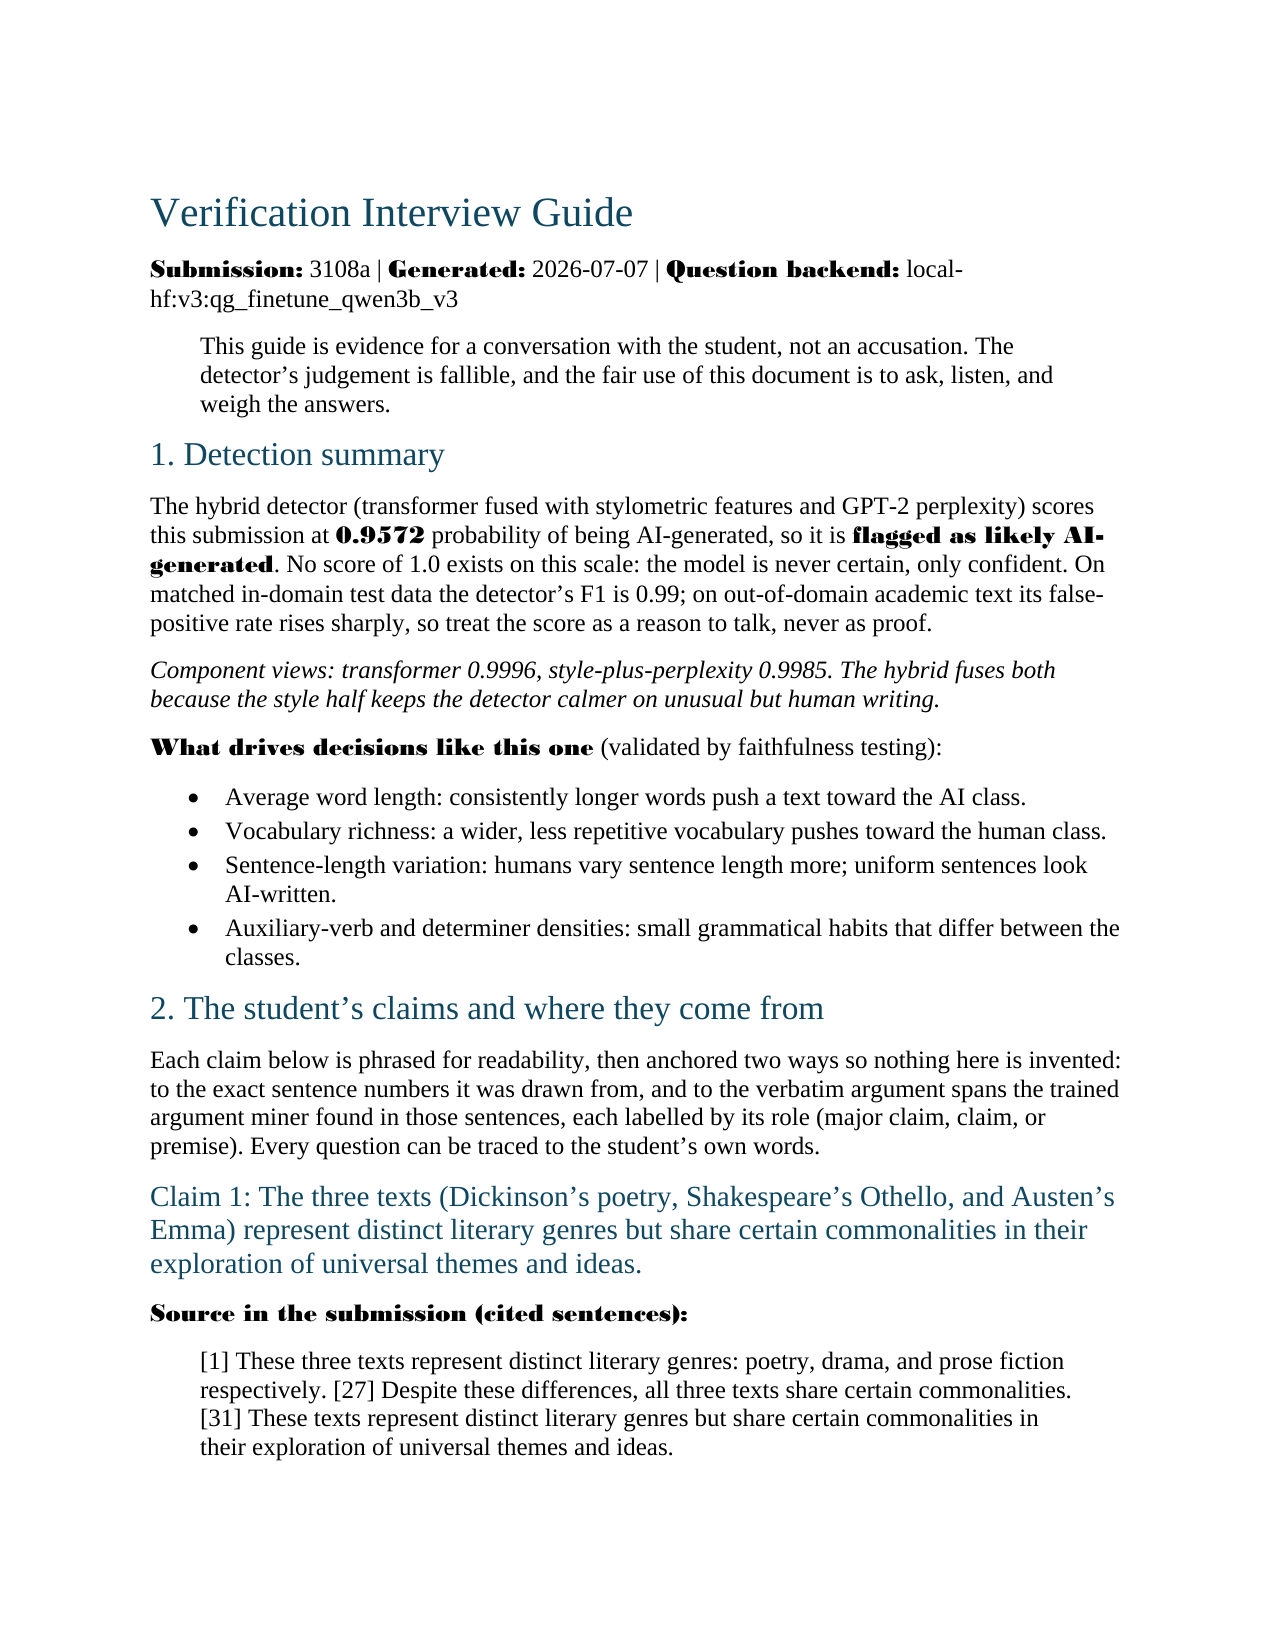
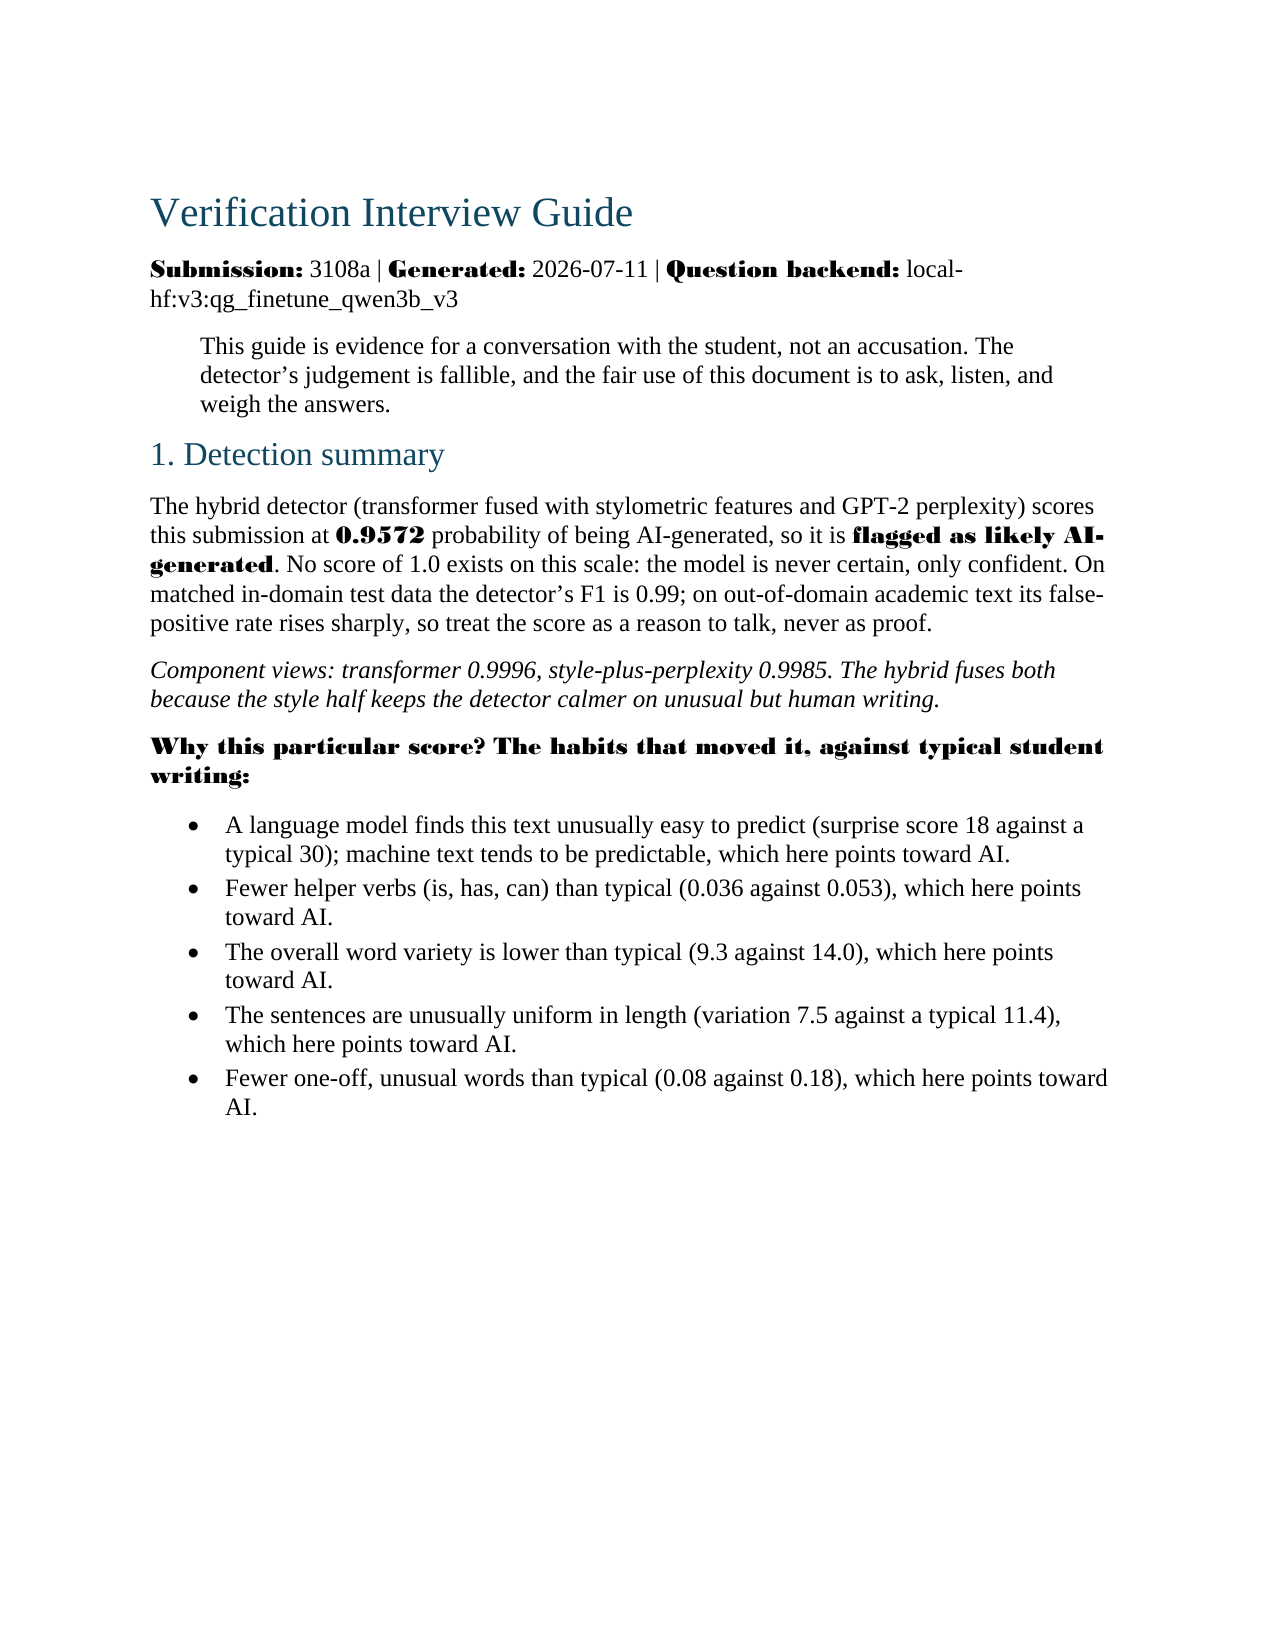
Add per-submission explanation card

Changed region(s): [[0.1224, 0.4327, 0.8871, 0.8964], [0.4894, 0.1545, 0.52, 0.1855]]

diff --git a/src/explainability/explain_submission.py b/src/explainability/explain_submission.py
@@ -1,0 +1,154 @@
+"""A per-submission, plain-language explanation card (the lecturer-facing explainability upgrade).
+
+The SHAP beeswarm in Chapter 5 convinces a researcher but not a busy lecturer. This module explains
+ONE submission in words and one simple picture: which writing habits pushed this essay's score, each
+stated in plain English and quantified against what is typical for real student essays in the corpus
+(median and the middle 80 percent band). It uses the persisted hybrid's style model (TreeExplainer on
+a single row is instant) so the explanation describes the very model that produced the score.
+
+Outputs, for embedding in the Verification Interview Guide:
+  - a horizontal bar card (PNG): top habits, arrows toward AI or human, plain names
+  - matching sentences ("The words are longer than in typical student writing: average 5.3 letters
+    against a typical 4.6.")
+
+    from explain_submission import explain_submission
+    card = explain_submission(text)   # {"png_path", "sentences", "features"}
+"""
+
+from __future__ import annotations
+
+import json
+import pickle
+from pathlib import Path
+
+import numpy as np
+import pandas as pd
+
+REPO = Path(__file__).resolve().parents[2]
+HYBRID = REPO / "models" / "hybrid"
+FEATS = REPO / "data" / "processed" / "stylometric_features.parquet"
+PPL_CACHE = REPO / "data" / "processed" / "gpt2_perplexity_home.parquet"
+
+# Plain-English templates per feature: (short label, sentence when the VALUE is higher than the
+# human median, sentence when it is lower). The observed direction always follows the numbers; the
+# toward-AI / toward-human push is appended separately from the SHAP sign, so the words can never
+# contradict the figures.
+PLAIN = {
+    "mean_word_len": ("word length",
+                      "The words are longer than in typical student writing (average {v:.1f} letters against a typical {m:.1f})",
+                      "The words are shorter than in typical student writing ({v:.1f} letters against a typical {m:.1f})"),
+    "ttr": ("vocabulary variety",
+            "The vocabulary varies more than typical (variety score {v:.2f} against {m:.2f})",
+            "The vocabulary is narrower and more repetitive than typical (variety score {v:.2f} against {m:.2f})"),
+    "root_ttr": ("vocabulary richness",
+                 "The overall word variety is higher than typical ({v:.1f} against {m:.1f})",
+                 "The overall word variety is lower than typical ({v:.1f} against {m:.1f})"),
+    "hapax_ratio": ("rare words",
+                    "More one-off, unusual words than typical ({v:.2f} against {m:.2f})",
+                    "Fewer one-off, unusual words than typical ({v:.2f} against {m:.2f})"),
+    "std_sent_len": ("sentence variation",
+                     "The sentence lengths vary more than typical ({v:.1f} against {m:.1f})",
+                     "The sentences are unusually uniform in length (variation {v:.1f} against a typical {m:.1f})"),
+    "sent_len_cv": ("sentence rhythm",
+                    "The sentence rhythm varies more than typical ({v:.2f} against {m:.2f})",
+                    "The sentence rhythm is steadier than typical ({v:.2f} against {m:.2f})"),
+    "burstiness": ("burstiness",
+                   "The writing is burstier than typical ({v:.2f} against {m:.2f})",
+                   "The writing flows more evenly than typical human writing ({v:.2f} against {m:.2f})"),
+    "mean_sent_len": ("sentence length",
+                      "Sentences run longer than typical ({v:.1f} words against {m:.1f})",
+                      "Sentences are shorter than typical ({v:.1f} words against {m:.1f})"),
+    "punct_ratio": ("punctuation",
+                    "Punctuation is denser than typical ({v:.3f} against {m:.3f})",
+                    "Punctuation is sparser than typical ({v:.3f} against {m:.3f})"),
+    "gpt2_ppl": ("predictability",
+                 "A language model finds this text harder to predict than typical (surprise score {v:.0f} against {m:.0f})",
+                 "A language model finds this text unusually easy to predict (surprise score {v:.0f} against a typical {m:.0f}); machine text tends to be predictable"),
+    "pos_AUX": ("auxiliary verbs",
+                "More helper verbs (is, has, can) than typical ({v:.3f} against {m:.3f})",
+                "Fewer helper verbs (is, has, can) than typical ({v:.3f} against {m:.3f})"),
+    "pos_DET": ("determiners",
+                "More small grammar words (the, this) than typical ({v:.3f} against {m:.3f})",
+                "Fewer small grammar words (the, this) than typical ({v:.3f} against {m:.3f})"),
+}
+
+
+def _fallback(feat: str) -> tuple[str, str, str]:
+    name = feat.replace("pos_", "").replace("_", " ")
+    return (name,
+            "The measure '" + name + "' is higher than typical ({v:.2f} against {m:.2f})",
+            "The measure '" + name + "' is lower than typical ({v:.2f} against {m:.2f})")
+
+
+def explain_submission(text: str, out_png: Path, top_k: int = 5) -> dict:
+    import sys
+    import shap
+    import torch
+    sys.path.insert(0, str(REPO / "src" / "detection"))
+    from text_normalize import normalize_text
+    from stylometric import load_nlp, stylometric_features
+    from hybrid_fusion import gpt2_perplexity
+
+    feat_cols = json.loads((HYBRID / "feat_cols.json").read_text(encoding="utf-8"))
+    gbm = pickle.load(open(HYBRID / "gbm_ppl.pkl", "rb"))
+    cols = feat_cols + ["gpt2_ppl"]
+
+    norm = normalize_text(text)
+    feats = stylometric_features(norm, load_nlp())
+    feats["gpt2_ppl"] = float(gpt2_perplexity([norm], torch.device("cpu"))[0])
+    X = pd.DataFrame([feats])[cols]
+
+    # Reference distribution: HUMAN essays in the corpus (what "typical student writing" means).
+    ref = pd.read_parquet(FEATS)
+    ppl = pd.read_parquet(PPL_CACHE)
+    ref = ref.merge(ppl, on=["id", "label"], validate="one_to_one")
+    human = ref[ref["label"] == 0]
+
+    sv = shap.TreeExplainer(gbm).shap_values(X)[0]
+    order = np.argsort(np.abs(sv))[::-1][:top_k]
+
+    rows, sentences = [], []
+    for i in order:
+        feat = cols[i]
+        v = float(X.iloc[0, i])
+        med = float(human[feat].median())
+        toward_ai = sv[i] > 0
+        label, hi_t, lo_t = PLAIN.get(feat, _fallback(feat))
+        body = (hi_t if v >= med else lo_t).format(v=v, m=med)
+        push = "toward AI" if toward_ai else "toward human"
+        sentences.append(f"{body}, which here points {push}.")
+        rows.append({"feature": feat, "label": label, "shap": float(sv[i]),
+                     "value": v, "human_median": med})
+
+    _draw_card(rows, out_png)
+    return {"png_path": str(out_png), "sentences": sentences, "features": rows}
+
+
+def _draw_card(rows: list[dict], out_png: Path) -> None:
+    import matplotlib
+    matplotlib.use("Agg")
+    import matplotlib.pyplot as plt
+    rows = rows[::-1]
+    labels = [r["label"] for r in rows]
+    vals = [r["shap"] for r in rows]
+    colors = ["#d98e3b" if v > 0 else "#2b6777" for v in vals]
+    fig, ax = plt.subplots(figsize=(8.6, 0.62 * len(rows) + 1.6))
+    ax.barh(range(len(vals)), vals, color=colors, height=0.62)
+    ax.axvline(0, color="#52616b", lw=1)
+    ax.set_yticks(range(len(vals)))
+    ax.set_yticklabels(labels, fontsize=11)
+    ax.set_xticks([])
+    lim = max(abs(v) for v in vals) * 1.35
+    ax.set_xlim(-lim, lim)
+    ax.text(lim, len(vals) - 0.2, "pushes toward AI", ha="right", fontsize=10,
+            color="#d98e3b", fontweight="bold")
+    ax.text(-lim, len(vals) - 0.2, "pushes toward human", ha="left", fontsize=10,
+            color="#2b6777", fontweight="bold")
+    ax.set_title("Why this score? The writing habits that moved it",
+                 fontsize=12.5, fontweight="bold", color="#222831", pad=12)
+    for s in ("top", "right", "left", "bottom"):
+        ax.spines[s].set_visible(False)
+    fig.tight_layout()
+    out_png.parent.mkdir(parents=True, exist_ok=True)
+    fig.savefig(out_png, dpi=200, facecolor="white")
+    plt.close(fig)

diff --git a/src/pipeline/assemble_guide.py b/src/pipeline/assemble_guide.py
@@ -111,6 +111,16 @@ def build_markdown(essay_id: str, source: str, det: dict, guide: dict,
                  f"style-plus-perplexity {comp.get('style_plus_perplexity')}. The hybrid fuses both "
                  f"because the style half keeps the detector calmer on unusual but human writing.*")
     L.append("")
+    card = det.get("explain_card")
+    if card:
+        L.append("**Why this particular score? The habits that moved it, against typical student "
+                 "writing:**")
+        L.append("")
+        for s in card["sentences"]:
+            L.append(f"- {s}")
+        L.append("")
+        L.append(f"![The writing habits that moved this submission's score]({Path(card['png_path']).name})")
+        L.append("")
     L.append("**What drives decisions like this one** (validated by faithfulness testing):")
     L.append("")
     for d in drivers():
@@ -170,7 +180,10 @@ def render(md_path: Path) -> None:
     docx = md_path.with_suffix(".docx")
     pdf = md_path.with_suffix(".pdf")
     if PANDOC.exists():
-        subprocess.run([str(PANDOC), str(md_path), "-o", str(docx)], check=True, timeout=120)
+        # --resource-path lets pandoc find images referenced by bare filename next to the markdown
+        # (the per-submission explanation card).
+        subprocess.run([str(PANDOC), str(md_path), "-o", str(docx),
+                        "--resource-path", str(md_path.parent)], check=True, timeout=120)
         print(f"Saved {docx.name}")
         if SOFFICE.exists():
             subprocess.run([str(SOFFICE), "--headless",
@@ -199,6 +212,18 @@ def main() -> int:
     print("Scoring submission with the trained detector ...", flush=True)
     det = detect(text)
     print(f"  prob(AI) = {det['prob_ai']}", flush=True)
+
+    # The lecturer-facing explanation card: this submission's writing habits against typical
+    # student writing, from the same style model the hybrid uses (explain_submission.py).
+    try:
+        import sys as _s
+        _s.path.insert(0, str(REPO / "src" / "explainability"))
+        from explain_submission import explain_submission
+        card_png = GUIDES / f"{args.id}_{args.source}_explain.png"
+        print("Building the per-submission explanation card ...", flush=True)
+        det["explain_card"] = explain_submission(text, card_png)
+    except Exception as e:
+        print(f"  (explanation card skipped: {type(e).__name__}: {str(e)[:100]})", flush=True)
 
     questions = [q["question"] for c in guide["claims"] for q in c["questions"]]
     print(f"Tagging {len(questions)} questions with the trained Bloom classifier ...", flush=True)

diff --git a/dissertation/chapters/05_explainability.md b/dissertation/chapters/05_explainability.md
@@ -128,7 +128,34 @@ the named stylometric features passes its ablation test and remains the explanat
 lecturers. Having the third method measured matters for the argument: the weakness is not a quirk of
 one attribution technique, it is a property of token-level explanation on this task.
 
-## 5.7 What follows for explainability
+## 5.7 From researcher's chart to lecturer's card
+
+The SHAP beeswarm of Figure 5.3 is the faithful explanation, but it is a researcher's picture: it
+takes training to read, and the audience for this system is a lecturer with none. The supervision
+feedback on the mid-project presentation said the same thing plainly, that the explanations convince
+the person who built them and not yet the person who must use them. So the explanation layer gained a
+second rendering aimed squarely at that reader (`src/explainability/explain_submission.py`), and it
+is now part of every generated guide.
+
+For one submission, the card takes the same style model the hybrid detector uses, computes which
+habits moved this particular essay's score, and states each one as a plain sentence with its number
+set against what is typical for real student essays in the corpus: "the sentences are unusually
+uniform in length, variation 7.5 against a typical 11.4", "a language model finds this text unusually
+easy to predict, surprise score 18 against a typical 30". Each sentence ends with the direction it
+pushed, and a small bar chart shows the same five habits with arrows toward AI or human. Two design
+rules keep it honest. The wording is generated from the numbers, higher or lower than the human
+median, so a sentence can never contradict its own figures. And the card explains the very model that
+produced the score, not a simplified stand-in, so faithfulness carries over from Section 5.5 rather
+than being re-argued.
+
+This does not finish the explainability work; it starts its second half. The card has not yet been
+tested on actual lecturers, its reference band is one corpus's idea of "typical", and the transformer
+half of the hybrid still contributes to the score without a per-essay account of its own. Those are
+named in the plan. But the direction is set: every explanation in this project must survive two
+tests, the ablation test that says it is faithful, and the plain-reader test that says it is
+understood.
+
+## 5.8 What follows for explainability
 
 Three things follow. First, the stylometric model and the transformer are fused into the hybrid
 detector in Section 6.7, with perplexity added to the feature set. Second, keep the token
